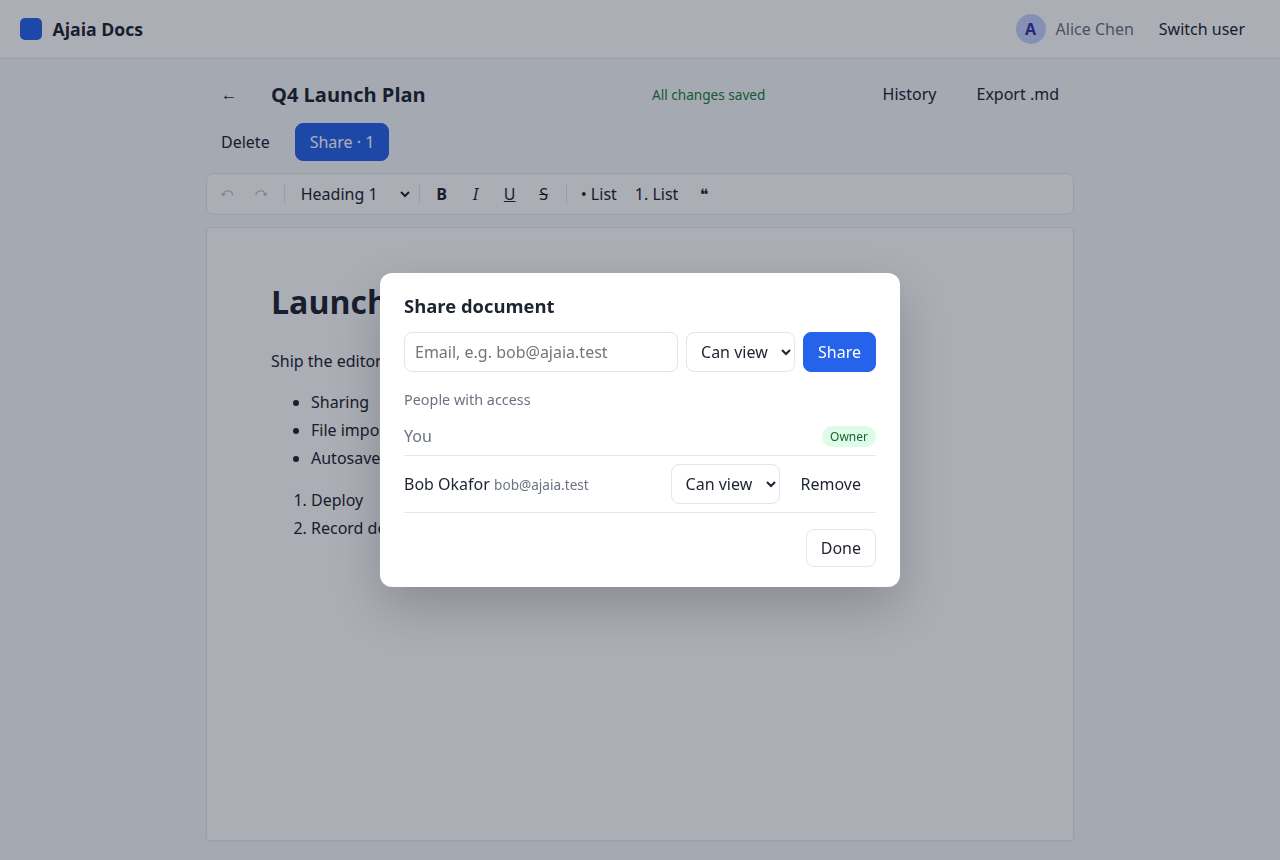
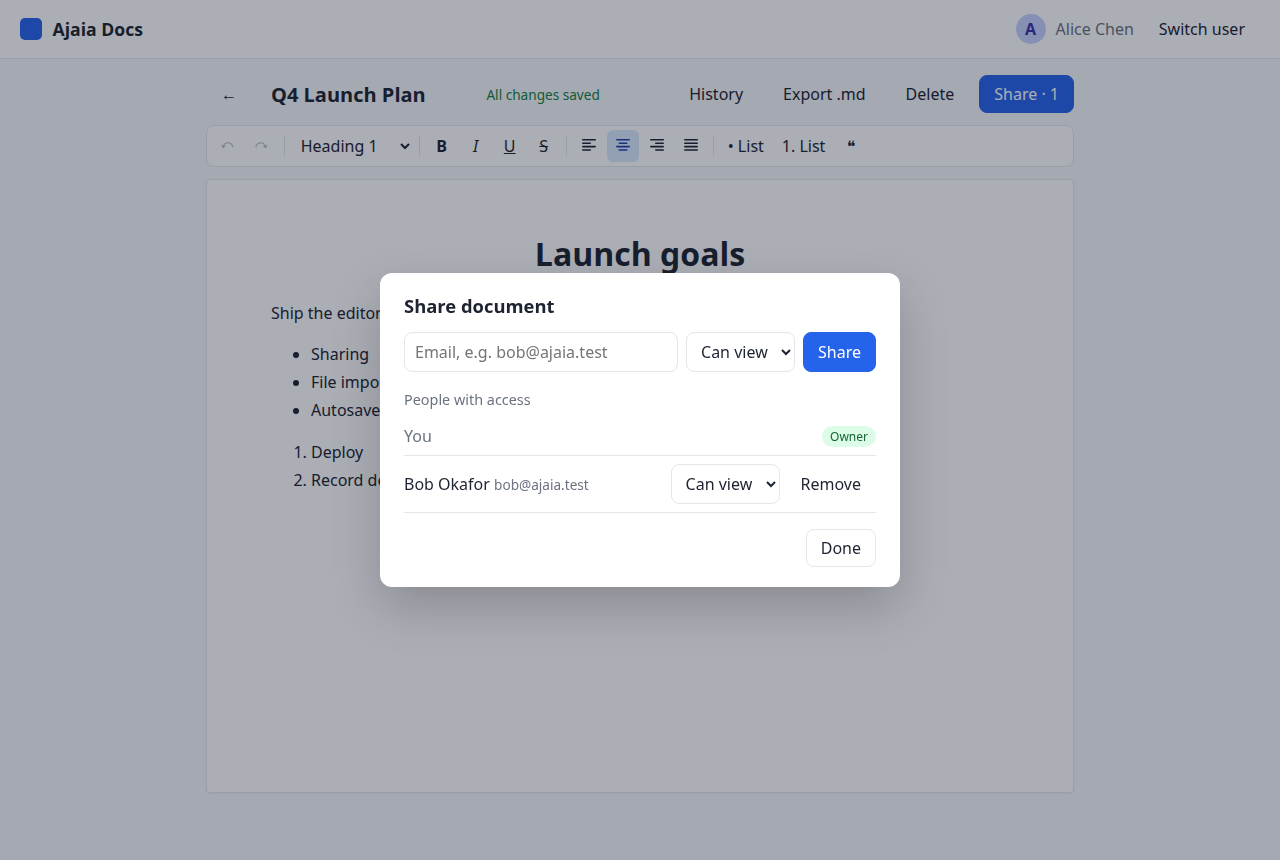
Fix save retry loop (classify failures, lock on 404/403), text alignment, image-paste notice, stable toolbar buttons

diff --git a/client/src/DocEditor.tsx b/client/src/DocEditor.tsx
@@ -1,12 +1,14 @@
 import { useCallback, useEffect, useRef, useState } from "react";
 import { EditorContent, useEditor, useEditorState, type Editor } from "@tiptap/react";
 import StarterKit from "@tiptap/starter-kit";
+import TextAlign from "@tiptap/extension-text-align";
 import { api, ApiError, type Doc } from "./api.ts";
 import { ShareDialog } from "./ShareDialog.tsx";
 import { HistoryPanel } from "./HistoryPanel.tsx";
 
-type Status = "saved" | "dirty" | "saving" | "error" | "conflict";
+type Status = "saved" | "dirty" | "saving" | "error" | "conflict" | "blocked";
 const AUTOSAVE_MS = 800;
+const MAX_RETRY_MS = 30_000;
 
 export function DocEditor({ id, onBack }: { id: string; onBack: () => void }) {
   const [doc, setDoc] = useState<Doc | null>(null);
@@ -47,10 +49,13 @@ function LoadedEditor({ initial, onBack, onReplaced }: { initial: Doc; onBack: (
   const inFlight = useRef(false);
   const timer = useRef<ReturnType<typeof setTimeout>>(undefined);
   const lastSavedTitle = useRef(initial.title);
+  const retryDelay = useRef(AUTOSAVE_MS);
+  const stopped = useRef(false); // set on conflict / deleted / access lost: no further saves
+  const [notice, setNotice] = useState("");
 
   const flush = useCallback(async () => {
     clearTimeout(timer.current);
-    if (inFlight.current || Object.keys(pending.current).length === 0) return;
+    if (stopped.current || inFlight.current || Object.keys(pending.current).length === 0) return;
     const patch = pending.current;
     pending.current = {};
     inFlight.current = true;
@@ -59,21 +64,42 @@ function LoadedEditor({ initial, onBack, onReplaced }: { initial: Doc; onBack: (
       const saved = await api.updateDoc(initial.id, { ...patch, version: version.current });
       version.current = saved.version;
       lastSavedTitle.current = saved.title;
+      retryDelay.current = AUTOSAVE_MS;
       setStatus(Object.keys(pending.current).length ? "dirty" : "saved");
     } catch (e: any) {
-      if (e instanceof ApiError && e.status === 409) {
-        setStatus("conflict");
-        setSaveError(e.message);
-        inFlight.current = false;
-        return; // stop autosaving; user must reload
+      inFlight.current = false;
+      const code = e instanceof ApiError ? e.status : 0;
+      // Three kinds of failure, handled differently:
+      if (code === 409 || code === 404 || code === 403) {
+        // 1. Permanent: retrying can never succeed. Stop and lock the editor.
+        pending.current = {};
+        stopped.current = true;
+        setStatus(code === 409 ? "conflict" : "blocked");
+        setSaveError(
+          code === 409 ? e.message
+          : code === 404 ? "This document was deleted or your access was removed. Your latest edits were not saved; copy anything you need."
+          : "Your access was changed to view-only. Your latest edits were not saved.",
+        );
+        return;
       }
-      pending.current = { ...patch, ...pending.current }; // retry these changes next time
+      if (code === 400 || code === 413) {
+        // 2. The content itself is rejected: keep the edits and retry when the user changes something.
+        pending.current = { ...patch, ...pending.current };
+        if (code === 400 && patch.title !== undefined) {
+          delete pending.current.title;
+          setTitle(lastSavedTitle.current);
+        }
+        setStatus("error");
+        setSaveError(`Couldn't save: ${e.message}. It will retry after your next change.`);
+        return;
+      }
+      // 3. Transient (network / 5xx): keep the edits and retry automatically with backoff.
+      pending.current = { ...patch, ...pending.current };
+      retryDelay.current = Math.min(retryDelay.current * 2, MAX_RETRY_MS);
       setStatus("error");
-      setSaveError(e.message);
-      if (e instanceof ApiError && e.status === 400 && patch.title !== undefined) {
-        delete pending.current.title;
-        setTitle(lastSavedTitle.current);
-      }
+      setSaveError(`Couldn't reach the server. Your changes are kept in this tab; retrying in ${Math.round(retryDelay.current / 1000)} s.`);
+      timer.current = setTimeout(flush, retryDelay.current);
+      return;
     }
     inFlight.current = false;
     if (Object.keys(pending.current).length) timer.current = setTimeout(flush, AUTOSAVE_MS);
@@ -81,8 +107,9 @@ function LoadedEditor({ initial, onBack, onReplaced }: { initial: Doc; onBack: (
 
   const schedule = useCallback(
     (patch: { title?: string; content?: string }) => {
+      if (stopped.current) return;
       pending.current = { ...pending.current, ...patch };
-      setStatus((s) => (s === "conflict" ? s : "dirty"));
+      setStatus((s) => (s === "conflict" || s === "blocked" ? s : "dirty"));
       clearTimeout(timer.current);
       timer.current = setTimeout(flush, AUTOSAVE_MS);
     },
@@ -90,11 +117,33 @@ function LoadedEditor({ initial, onBack, onReplaced }: { initial: Doc; onBack: (
   );
 
   const editor = useEditor({
-    extensions: [StarterKit.configure({ heading: { levels: [1, 2, 3] }, link: { openOnClick: false } })],
+    extensions: [
+      StarterKit.configure({ heading: { levels: [1, 2, 3] }, link: { openOnClick: false } }),
+      TextAlign.configure({ types: ["heading", "paragraph"] }),
+    ],
     content: initial.content,
     editable: canEdit,
     onUpdate: ({ editor }) => schedule({ content: editor.getHTML() }),
+    editorProps: {
+      // Images aren't part of this editor's scope; say so instead of silently dropping them.
+      handlePaste: (_view, event) => rejectImages(event.clipboardData),
+      handleDrop: (_view, event) => rejectImages((event as DragEvent).dataTransfer),
+    },
   });
+
+  function rejectImages(data: DataTransfer | null) {
+    const hasImage = [...(data?.files ?? [])].some((f) => f.type.startsWith("image/"));
+    if (!hasImage) return false;
+    setNotice("Images aren't supported in this editor yet. Paste text only.");
+    setTimeout(() => setNotice(""), 4000);
+    return true;
+  }
+
+  // Once saving is impossible, stop accepting edits so nothing else is silently lost.
+  useEffect(() => {
+    // emitUpdate=false: otherwise TipTap fires onUpdate, which would queue yet another save.
+    if (status === "conflict" || status === "blocked") editor?.setEditable(false, false);
+  }, [status, editor]);
 
   // Flush on unmount; warn before closing the tab with unsaved changes; Ctrl/Cmd+S saves now.
   useEffect(() => {
@@ -172,7 +221,8 @@ function LoadedEditor({ initial, onBack, onReplaced }: { initial: Doc; onBack: (
           {saveError} <button className="btn" onClick={() => location.reload()}>Reload</button>
         </div>
       )}
-      {status === "error" && <div className="alert error">Couldn't save: {saveError}. Retrying on your next edit.</div>}
+      {(status === "error" || status === "blocked") && <div className="alert error">{saveError}</div>}
+      {notice && <div className="alert info">{notice}</div>}
       {!canEdit && <div className="alert info">You have view-only access to this document.</div>}
 
       {canEdit && editor && <Toolbar editor={editor} />}
@@ -203,8 +253,16 @@ function LoadedEditor({ initial, onBack, onReplaced }: { initial: Doc; onBack: (
 
 function SaveStatus({ status, canEdit }: { status: Status; canEdit: boolean }) {
   if (!canEdit) return <span className="save-status muted">Read-only</span>;
-  const label = { saved: "All changes saved", dirty: "Unsaved changes…", saving: "Saving…", error: "Save failed", conflict: "Conflict" }[status];
+  const label = { saved: "All changes saved", dirty: "Unsaved changes…", saving: "Saving…", error: "Save failed", conflict: "Conflict", blocked: "Not saved" }[status];
   return <span className={`save-status ${status}`}>{label}</span>;
+}
+
+// Top-level (not defined inside Toolbar) so React keeps the same buttons mounted across re-renders.
+function ToolButton(p: { on?: boolean; label: React.ReactNode; title: string; run: () => void; disabled?: boolean }) {
+  return (
+    <button type="button" className={`tb ${p.on ? "on" : ""}`} title={p.title} aria-pressed={p.on} disabled={p.disabled}
+      onMouseDown={(e) => e.preventDefault()} onClick={p.run}>{p.label}</button>
+  );
 }
 
 function Toolbar({ editor }: { editor: Editor }) {
@@ -213,19 +271,16 @@ function Toolbar({ editor }: { editor: Editor }) {
     selector: ({ editor: e }) => ({
       bold: e.isActive("bold"), italic: e.isActive("italic"), underline: e.isActive("underline"), strike: e.isActive("strike"),
       h1: e.isActive("heading", { level: 1 }), h2: e.isActive("heading", { level: 2 }), h3: e.isActive("heading", { level: 3 }),
+      align: (["center", "right", "justify"] as const).find((a) => e.isActive({ textAlign: a })) ?? "left",
       bullet: e.isActive("bulletList"), ordered: e.isActive("orderedList"), quote: e.isActive("blockquote"),
       canUndo: e.can().undo(), canRedo: e.can().redo(),
     }),
   });
   const c = () => editor.chain().focus();
-  const B = (p: { on?: boolean; label: React.ReactNode; title: string; run: () => void; disabled?: boolean }) => (
-    <button type="button" className={`tb ${p.on ? "on" : ""}`} title={p.title} aria-pressed={p.on} disabled={p.disabled}
-      onMouseDown={(e) => e.preventDefault()} onClick={p.run}>{p.label}</button>
-  );
   return (
     <div className="toolbar" role="toolbar">
-      <B title="Undo (Ctrl+Z)" label="↶" run={() => c().undo().run()} disabled={!s.canUndo} />
-      <B title="Redo (Ctrl+Shift+Z)" label="↷" run={() => c().redo().run()} disabled={!s.canRedo} />
+      <ToolButton title="Undo (Ctrl+Z)" label="↶" run={() => c().undo().run()} disabled={!s.canUndo} />
+      <ToolButton title="Redo (Ctrl+Shift+Z)" label="↷" run={() => c().redo().run()} disabled={!s.canRedo} />
       <span className="sep" />
       <select
         className="tb-select"
@@ -243,14 +298,32 @@ function Toolbar({ editor }: { editor: Editor }) {
         <option value="3">Heading 3</option>
       </select>
       <span className="sep" />
-      <B title="Bold (Ctrl+B)" on={s.bold} label={<b>B</b>} run={() => c().toggleBold().run()} />
-      <B title="Italic (Ctrl+I)" on={s.italic} label={<i>I</i>} run={() => c().toggleItalic().run()} />
-      <B title="Underline (Ctrl+U)" on={s.underline} label={<u>U</u>} run={() => c().toggleUnderline().run()} />
-      <B title="Strikethrough" on={s.strike} label={<s>S</s>} run={() => c().toggleStrike().run()} />
+      <ToolButton title="Bold (Ctrl+B)" on={s.bold} label={<b>B</b>} run={() => c().toggleBold().run()} />
+      <ToolButton title="Italic (Ctrl+I)" on={s.italic} label={<i>I</i>} run={() => c().toggleItalic().run()} />
+      <ToolButton title="Underline (Ctrl+U)" on={s.underline} label={<u>U</u>} run={() => c().toggleUnderline().run()} />
+      <ToolButton title="Strikethrough" on={s.strike} label={<s>S</s>} run={() => c().toggleStrike().run()} />
       <span className="sep" />
-      <B title="Bulleted list" on={s.bullet} label="• List" run={() => c().toggleBulletList().run()} />
-      <B title="Numbered list" on={s.ordered} label="1. List" run={() => c().toggleOrderedList().run()} />
-      <B title="Quote" on={s.quote} label="❝" run={() => c().toggleBlockquote().run()} />
+      {(["left", "center", "right", "justify"] as const).map((a) => (
+        <ToolButton key={a} title={`Align ${a}`} on={s.align === a} label={<AlignIcon align={a} />} run={() => c().setTextAlign(a).run()} />
+      ))}
+      <span className="sep" />
+      <ToolButton title="Bulleted list" on={s.bullet} label="• List" run={() => c().toggleBulletList().run()} />
+      <ToolButton title="Numbered list" on={s.ordered} label="1. List" run={() => c().toggleOrderedList().run()} />
+      <ToolButton title="Quote" on={s.quote} label="❝" run={() => c().toggleBlockquote().run()} />
     </div>
+  );
+}
+
+/** Four-line alignment glyph; line widths/offsets show the alignment. */
+function AlignIcon({ align }: { align: "left" | "center" | "right" | "justify" }) {
+  const rows = [14, 9, 14, 9];
+  return (
+    <svg width="16" height="14" viewBox="0 0 16 14" aria-hidden>
+      {rows.map((w, i) => {
+        const width = align === "justify" ? 14 : w;
+        const x = align === "center" ? (16 - width) / 2 : align === "right" ? 15 - width : 1;
+        return <rect key={i} x={x} y={1 + i * 3.4} width={width} height="1.6" rx="0.8" fill="currentColor" />;
+      })}
+    </svg>
   );
 }

diff --git a/client/src/styles.css b/client/src/styles.css
@@ -59,9 +59,9 @@ button, input, select { font: inherit; color: inherit; }
 /* editor */
 .editor-page { max-width: 900px; margin: 0 auto; padding: 16px 16px 80px; }
 .doc-header { display: flex; align-items: center; gap: 10px; flex-wrap: wrap; }
-.title-input { font-size: 1.25rem; font-weight: 600; border: 1px solid transparent; border-radius: 6px; padding: 4px 8px; background: transparent; min-width: 0; flex: 0 1 380px; }
+.title-input { font-size: 1.25rem; font-weight: 600; border: 1px solid transparent; border-radius: 6px; padding: 4px 8px; background: transparent; min-width: 0; flex: 1 1 160px; }
 .title-input:hover:not(:disabled), .title-input:focus { border-color: var(--border); background: var(--surface); outline: none; }
-.save-status { font-size: 0.85rem; color: var(--muted); }
+.save-status { font-size: 0.85rem; color: var(--muted); white-space: nowrap; }
 .save-status.saved { color: var(--ok); }
 .save-status.error, .save-status.conflict { color: var(--danger); }
 

diff --git a/server/app.test.ts b/server/app.test.ts
@@ -108,6 +108,13 @@ describe("documents, sharing & access control", () => {
       .send({ content: '<p onclick="x()">hi</p><script>alert(1)</script><img src=x onerror=alert(1)>' })
       .expect(201);
     expect(body.content).toBe("<p>hi</p>");
+
+    // Text alignment is the only inline style allowed through.
+    const aligned = await alice
+      .post("/api/documents")
+      .send({ content: '<h1 style="text-align: center">T</h1><p style="text-align:right;color:red">x</p><p style="position:fixed">y</p>' })
+      .expect(201);
+    expect(aligned.body.content).toBe('<h1 style="text-align:center">T</h1><p style="text-align:right">x</p><p>y</p>');
   });
 
   it("validates input", async () => {

diff --git a/server/content.ts b/server/content.ts
@@ -10,7 +10,9 @@ const ALLOWED: sanitizeHtml.IOptions = {
     "p", "br", "h1", "h2", "h3", "strong", "b", "em", "i", "u", "s",
     "ul", "ol", "li", "blockquote", "code", "pre", "hr", "a",
   ],
-  allowedAttributes: { a: ["href", "target", "rel"] },
+  allowedAttributes: { a: ["href", "target", "rel"], p: ["style"], h1: ["style"], h2: ["style"], h3: ["style"] },
+  // Only text alignment survives; any other inline style is dropped.
+  allowedStyles: { "*": { "text-align": [/^(left|center|right|justify)$/] } },
   allowedSchemes: ["http", "https", "mailto"],
 };
 

diff --git a/README.md b/README.md
@@ -23,11 +23,11 @@ Sign-in is mocked: pick a seeded user on the login screen (no password).
 | Area | What works |
 |---|---|
 | Documents | Create, rename (click the title), edit, reopen, delete (owner only). Autosave ~0.8 s after you stop typing, plus `Ctrl/Cmd+S`. Save status is shown ("Saving… / All changes saved"). |
-| Rich text | Bold, italic, underline, strikethrough, Heading 1–3, bulleted and numbered lists, quotes, undo/redo. Markdown shortcuts work too (`# `, `- `, `1. `). |
+| Rich text | Bold, italic, underline, strikethrough, Heading 1–3, text alignment (left, center, right, justify), bulleted and numbered lists, quotes, undo/redo. Markdown shortcuts work too (`# `, `- `, `1. `). Pasted images are rejected with a clear message (images are out of scope). |
 | File import | **`.txt`, `.md`, `.docx` (max 2 MB)** → a new editable document, titled after the file name. Other types are rejected with a clear message. |
 | Sharing | Owner shares by email as **viewer** (read-only) or **editor**, changes the role, or revokes access. The list separates **My documents** from **Shared with me** (with role + owner). |
 | Persistence | Documents, formatting (stored as sanitized HTML) and shares are kept in Postgres: Supabase in production, embedded PGlite (Postgres compiled to WASM) locally and in tests. |
-| Conflict safety | Every save carries a version number. If someone else saved first, you get a "Reload" prompt (HTTP 409) instead of silently overwriting their work. |
+| Save safety | Every save carries a version number. If someone else saved first, you get a "Reload" prompt (HTTP 409) instead of silently overwriting their work. If the document is deleted or your access is removed while it's open, saving stops and the editor locks with a clear message. Network errors keep your edits in the tab and retry with increasing delays. |
 | Version history | **History** lists saved versions with the author and time, previews any of them, and lets editors or owners restore one. A restore is itself a new version, so it can be undone. Quick autosaves by the same person within 2 minutes merge into one entry. |
 | Export | Download any document you can open as Markdown. |
 
@@ -71,6 +71,7 @@ npm run typecheck
   - rename, reload and persistence
   - share as viewer, restore from version history and undo the restore, import `.md`, rejected upload
   - Bob sees a read-only view, and can browse history but not restore
+  - text alignment persists, and a document deleted while open stops saving after one request (no retry loop)
 
   `CHROME_PATH` overrides the browser path.
 

diff --git a/AI_WORKFLOW.md b/AI_WORKFLOW.md
@@ -36,6 +36,8 @@
 | Returning 403 for documents you can't access | **Rejected** in favor of 404, so the API doesn't reveal which document ids exist. |
 | Real-time collaboration as an optional extra | **Rejected** as a scope trap. Version-based conflict detection gives the "no silent data loss" guarantee at a fraction of the cost. |
 | Railway deploy commands | **Caught a failure.** `railway init` errored, and the commands that followed silently used a different project linked from a parent directory. We stopped, reported it, and moved to Render plus a free managed database. Lesson: check `railway status` before running anything that changes state. |
+| **Bug I found by hand:** "Save failed" flickering after the document vanished | **Root cause:** the AI's first autosave retried *every* failure every 0.8 s, even errors that can never succeed. While fixing it, the new E2E check found a second loop: locking the editor with `setEditable(false)` fires TipTap's update event, which queued another save. **Fix:** three failure types (stop and lock / wait for the user's next change / retry with increasing delays), a hard "stopped" guard, and a silent `setEditable`. A test now counts the save requests (exactly 1). |
+| Toolbar button component defined inside `Toolbar` | **Fixed after the E2E test exposed it.** A component defined inside another one is a new type on every render, so React unmounted and remounted every toolbar button on each selection change. Moved it to the top level. |
 | First E2E run reported a "rename not persisted" failure | **Diagnosed as a test bug, not an app bug.** A triple-click didn't select the input text, so the stored title was `Untitled documenQ4 Launch Plant`. I fixed the test rather than "fixing" working code. |
 
 ## How I verified correctness, UX and reliability

diff --git a/PROCESS.md b/PROCESS.md
@@ -25,3 +25,5 @@ Tool: Claude Code (CLI agent, Claude Opus) as pair programmer in the repo + term
 | 17 | 16:52 | Verify production | Same 10-check E2E against the live URL: all pass; deep links 200; unauth API 401; wiped E2E data so reviewers start clean | Kept | Verify the thing reviewers will actually use |
 | 18 | 16:55 | "Is a proper auth flow required?" | Quoted brief (mocked auth explicitly allowed); recommended against building it (reviewer friction, not graded, late risk) | Agreed | Spend time where it's evaluated |
 | 19 | 16:57 | Build version history | Schema + coalescing via single conditional UPDATE; restore through same version-checked write; History panel w/ preview; +1 API test, +4 E2E checks | Kept | Restore-as-new-version makes it undoable and conflict-safe |
+| 20 | 17:05 | I reported: pasting an image → "Document not found", screen flickering; asked for a center-align toggle | Diagnosis: 404 because the local server had been restarted on a fresh DB (environment), **but** flicker was a real bug: autosave retried every failure forever | Fixed: classified failures (stop / wait for edit / backoff), image paste → clear notice, text-align (sanitizer allows only `text-align`) | Real user testing found what scripted tests missed |
+| 21 | 17:10 | New E2E checks for the fixes | Exposed 2 more bugs: `setEditable(false)` emits update → save loop; toolbar button component remounting every render | Both fixed; 17/17 E2E checks, 8/8 API tests | Writing the reproduction test before trusting the fix paid off twice |

diff --git a/SUBMISSION.md b/SUBMISSION.md
@@ -39,7 +39,9 @@
 - Markdown export
 - validation and error states
 - version history with preview and restore (a restore can be undone)
-- 8 API tests plus a 14-check E2E UI run
+- text alignment
+- save-failure handling: stops on 404/403, retries network errors with backoff, no retry loops
+- 8 API tests plus a 17-check E2E UI run
 
 **Incomplete or simplified:**
 - Auth is mocked: seeded users, no passwords.
